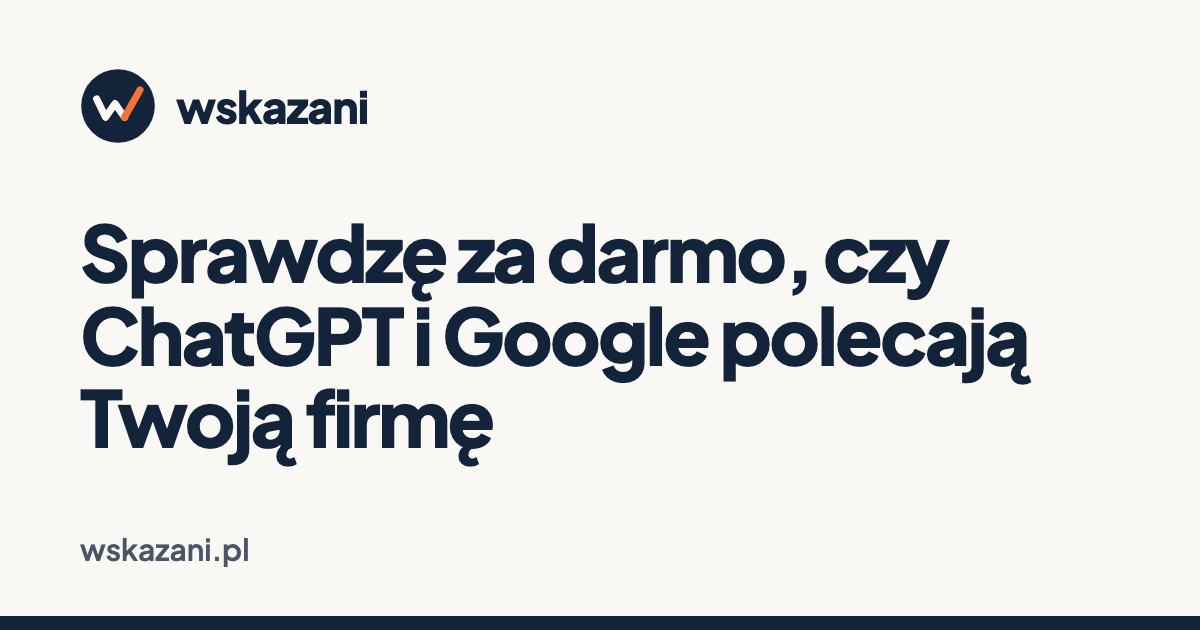
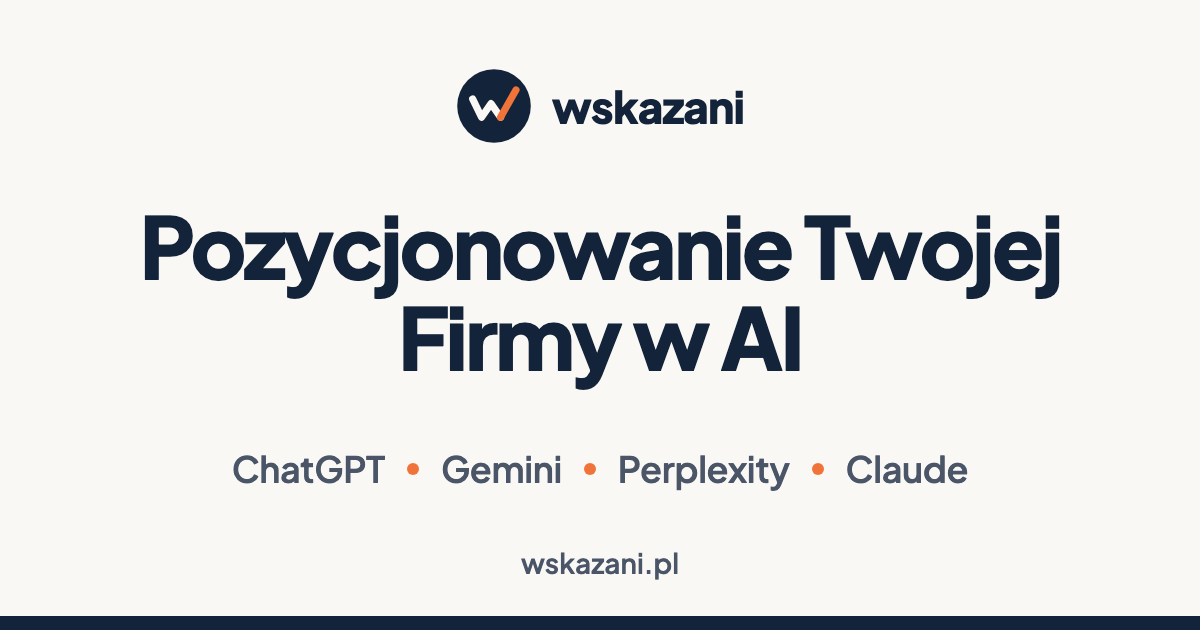
Obraz podglądu linku: wizytówka 'Pozycjonowanie Twojej Firmy w AI' z listą asystentów

diff --git a/tools/og-image.html b/tools/og-image.html
@@ -3,13 +3,16 @@
 @font-face{font-family:'PJS';font-weight:400 800;src:url(../fonts/plus-jakarta-sans-latin.woff2) format('woff2');unicode-range:U+0000-00FF,U+0131,U+0152-0153,U+2000-206F,U+20AC}
 @font-face{font-family:'PJS';font-weight:400 800;src:url(../fonts/plus-jakarta-sans-latin-ext.woff2) format('woff2');unicode-range:U+0100-02BA,U+1E00-1E9F}
 html,body{margin:0}
-body{width:1200px;height:630px;background:#FAF8F4;font-family:'PJS',sans-serif;color:#13233A;position:relative;overflow:hidden}
-.brand{position:absolute;left:80px;top:68px;display:flex;align-items:center;gap:20px;font-weight:800;font-size:44px;letter-spacing:-.02em}
-h1{position:absolute;left:80px;top:210px;width:1000px;margin:0;font-size:78px;line-height:1.06;letter-spacing:-.035em;font-weight:800}
-.url{position:absolute;left:80px;bottom:62px;font-size:30px;font-weight:600;color:#4A5568}
+body{width:1200px;height:630px;background:#FAF8F4;font-family:'PJS',sans-serif;color:#13233A;position:relative;overflow:hidden;text-align:center}
+.brand{position:absolute;left:0;right:0;top:68px;display:flex;align-items:center;justify-content:center;gap:20px;font-weight:800;font-size:44px;letter-spacing:-.02em}
+h1{position:absolute;left:60px;right:60px;top:200px;margin:0;font-size:86px;line-height:1.06;letter-spacing:-.035em;font-weight:800}
+.eng{position:absolute;left:0;right:0;top:446px;display:flex;align-items:center;justify-content:center;gap:22px;font-size:36px;font-weight:600;color:#4A5568;letter-spacing:-.01em}
+.eng i{width:12px;height:12px;border-radius:50%;background:#F0743A;display:block}
+.url{position:absolute;left:0;right:0;bottom:50px;font-size:28px;font-weight:600;color:#4A5568}
 .bar{position:absolute;left:0;bottom:0;width:100%;height:14px;background:#13233A}
 </style></head><body>
 <div class="brand"><svg width="76" height="76" viewBox="0 0 64 64"><circle cx="32" cy="32" r="31" fill="#13233A"/><path d="M14 26L21.5 41.5L29.5 30L37.5 41.5" fill="none" stroke="#FAF8F4" stroke-width="6" stroke-linecap="round" stroke-linejoin="round"/><path d="M37.5 41.5L50.5 18.5" fill="none" stroke="#F0743A" stroke-width="6" stroke-linecap="round"/></svg><span>wskazani</span></div>
-<h1>Sprawdzę za darmo, czy ChatGPT i Google polecają Twoją firmę</h1>
+<h1>Pozycjonowanie Twojej Firmy w AI</h1>
+<div class="eng"><span>ChatGPT</span><i></i><span>Gemini</span><i></i><span>Perplexity</span><i></i><span>Claude</span></div>
 <div class="url">wskazani.pl</div><div class="bar"></div>
 </body></html>

diff --git a/index.html b/index.html
@@ -26,14 +26,14 @@ try{if(localStorage.getItem('zgoda-marketing')==='tak')gtag('consent','update',{
 <meta property="og:title" content="Pozycjonowanie w AI: ChatGPT poleca Twoją firmę | Wskazani">
 <meta property="og:description" content="Kiedy klient pyta ChatGPT o firmę z Twojej branży, AI wymienia konkurencję. Robimy tak, że zaczyna polecać Ciebie. Diagnostyka 19 zł, wynik w 3 dni robocze.">
 <meta property="og:url" content="https://wskazani.pl/">
-<meta property="og:image" content="https://wskazani.pl/og-image.png">
+<meta property="og:image" content="https://wskazani.pl/og-image.png?v=2">
 <meta property="og:image:width" content="1200">
 <meta property="og:image:height" content="630">
-<meta property="og:image:alt" content="Wskazani: AI poleca Twoją firmę, nie konkurencję">
+<meta property="og:image:alt" content="Wskazani: Pozycjonowanie Twojej Firmy w AI. ChatGPT, Gemini, Perplexity, Claude">
 <meta name="twitter:card" content="summary_large_image">
 <meta name="twitter:title" content="Pozycjonowanie w AI: ChatGPT poleca Twoją firmę | Wskazani">
 <meta name="twitter:description" content="Kiedy klient pyta ChatGPT o firmę z Twojej branży, AI wymienia konkurencję. Robimy tak, że zaczyna polecać Ciebie. Diagnostyka 19 zł, wynik w 3 dni robocze.">
-<meta name="twitter:image" content="https://wskazani.pl/og-image.png">
+<meta name="twitter:image" content="https://wskazani.pl/og-image.png?v=2">
 <link rel="preload" href="/fonts/plus-jakarta-sans-latin.woff2" as="font" type="font/woff2" crossorigin>
 <link rel="stylesheet" href="/style.css">
 <noscript><style>.nav-toggle{display:none}.nav-panel{display:flex!important}.cmp-wrap{display:block!important}.cmp-mobile{display:none!important}</style></noscript>

diff --git a/cennik.html b/cennik.html
@@ -26,14 +26,14 @@ try{if(localStorage.getItem('zgoda-marketing')==='tak')gtag('consent','update',{
 <meta property="og:title" content="Cennik: ile kosztuje pozycjonowanie w AI | Wskazani">
 <meta property="og:description" content="Jasne ceny: diagnostyka pozycjonowania w AI 19 zł, wdrożenie od 990 zł, nowa strona od 1990 zł, stała opieka od 199 zł miesięcznie. Kwoty końcowe, bez VAT.">
 <meta property="og:url" content="https://wskazani.pl/cennik">
-<meta property="og:image" content="https://wskazani.pl/og-image.png">
+<meta property="og:image" content="https://wskazani.pl/og-image.png?v=2">
 <meta property="og:image:width" content="1200">
 <meta property="og:image:height" content="630">
-<meta property="og:image:alt" content="Wskazani: AI poleca Twoją firmę, nie konkurencję">
+<meta property="og:image:alt" content="Wskazani: Pozycjonowanie Twojej Firmy w AI. ChatGPT, Gemini, Perplexity, Claude">
 <meta name="twitter:card" content="summary_large_image">
 <meta name="twitter:title" content="Cennik: ile kosztuje pozycjonowanie w AI | Wskazani">
 <meta name="twitter:description" content="Jasne ceny: diagnostyka pozycjonowania w AI 19 zł, wdrożenie od 990 zł, nowa strona od 1990 zł, stała opieka od 199 zł miesięcznie. Kwoty końcowe, bez VAT.">
-<meta name="twitter:image" content="https://wskazani.pl/og-image.png">
+<meta name="twitter:image" content="https://wskazani.pl/og-image.png?v=2">
 <link rel="preload" href="/fonts/plus-jakarta-sans-latin.woff2" as="font" type="font/woff2" crossorigin>
 <link rel="stylesheet" href="/style.css">
 <noscript><style>.nav-toggle{display:none}.nav-panel{display:flex!important}.cmp-wrap{display:block!important}.cmp-mobile{display:none!important}</style></noscript>

diff --git a/o-nas.html b/o-nas.html
@@ -26,14 +26,14 @@ try{if(localStorage.getItem('zgoda-marketing')==='tak')gtag('consent','update',{
 <meta property="og:title" content="O nas: Wskazani, pozycjonowanie w AI z Warszawy">
 <meta property="og:description" content="Wskazani to agencja z Warszawy. Sprawdzamy i poprawiamy, jak ChatGPT, Gemini, Perplexity i Claude polecają polskie firmy. Jawne ceny, bez umowy na lata.">
 <meta property="og:url" content="https://wskazani.pl/o-nas">
-<meta property="og:image" content="https://wskazani.pl/og-image.png">
+<meta property="og:image" content="https://wskazani.pl/og-image.png?v=2">
 <meta property="og:image:width" content="1200">
 <meta property="og:image:height" content="630">
-<meta property="og:image:alt" content="Wskazani: AI poleca Twoją firmę, nie konkurencję">
+<meta property="og:image:alt" content="Wskazani: Pozycjonowanie Twojej Firmy w AI. ChatGPT, Gemini, Perplexity, Claude">
 <meta name="twitter:card" content="summary_large_image">
 <meta name="twitter:title" content="O nas: Wskazani, pozycjonowanie w AI z Warszawy">
 <meta name="twitter:description" content="Wskazani to agencja z Warszawy. Sprawdzamy i poprawiamy, jak ChatGPT, Gemini, Perplexity i Claude polecają polskie firmy. Jawne ceny, bez umowy na lata.">
-<meta name="twitter:image" content="https://wskazani.pl/og-image.png">
+<meta name="twitter:image" content="https://wskazani.pl/og-image.png?v=2">
 <link rel="preload" href="/fonts/plus-jakarta-sans-latin.woff2" as="font" type="font/woff2" crossorigin>
 <link rel="stylesheet" href="/style.css">
 <noscript><style>.nav-toggle{display:none}.nav-panel{display:flex!important}.cmp-wrap{display:block!important}.cmp-mobile{display:none!important}</style></noscript>

diff --git a/wspolpraca.html b/wspolpraca.html
@@ -26,14 +26,14 @@ try{if(localStorage.getItem('zgoda-marketing')==='tak')gtag('consent','update',{
 <meta property="og:title" content="Stała opieka i monitoring pozycjonowania w AI | Wskazani">
 <meta property="og:description" content="Bez umowy na lata, od 199 zł miesięcznie. Co miesiąc sprawdzamy, czy AI dalej rozumie Twoją firmę, i poprawiamy to, co się zmieniło.">
 <meta property="og:url" content="https://wskazani.pl/wspolpraca">
-<meta property="og:image" content="https://wskazani.pl/og-image.png">
+<meta property="og:image" content="https://wskazani.pl/og-image.png?v=2">
 <meta property="og:image:width" content="1200">
 <meta property="og:image:height" content="630">
-<meta property="og:image:alt" content="Wskazani: AI poleca Twoją firmę, nie konkurencję">
+<meta property="og:image:alt" content="Wskazani: Pozycjonowanie Twojej Firmy w AI. ChatGPT, Gemini, Perplexity, Claude">
 <meta name="twitter:card" content="summary_large_image">
 <meta name="twitter:title" content="Stała opieka i monitoring pozycjonowania w AI | Wskazani">
 <meta name="twitter:description" content="Bez umowy na lata, od 199 zł miesięcznie. Co miesiąc sprawdzamy, czy AI dalej rozumie Twoją firmę, i poprawiamy to, co się zmieniło.">
-<meta name="twitter:image" content="https://wskazani.pl/og-image.png">
+<meta name="twitter:image" content="https://wskazani.pl/og-image.png?v=2">
 <link rel="preload" href="/fonts/plus-jakarta-sans-latin.woff2" as="font" type="font/woff2" crossorigin>
 <link rel="stylesheet" href="/style.css">
 <noscript><style>.nav-toggle{display:none}.nav-panel{display:flex!important}.cmp-wrap{display:block!important}.cmp-mobile{display:none!important}</style></noscript>

diff --git a/pozycjonowanie-w-ai.html b/pozycjonowanie-w-ai.html
@@ -26,14 +26,14 @@ try{if(localStorage.getItem('zgoda-marketing')==='tak')gtag('consent','update',{
 <meta property="og:title" content="Pozycjonowanie w AI dla firm | Wskazani">
 <meta property="og:description" content="Poprawiamy to, co ChatGPT, Perplexity i Google czytają o Twojej firmie. Konkretny zakres, jawne ceny i bez umowy na lata. Diagnostyka za 19 zł.">
 <meta property="og:url" content="https://wskazani.pl/pozycjonowanie-w-ai">
-<meta property="og:image" content="https://wskazani.pl/og-image.png">
+<meta property="og:image" content="https://wskazani.pl/og-image.png?v=2">
 <meta property="og:image:width" content="1200">
 <meta property="og:image:height" content="630">
-<meta property="og:image:alt" content="Wskazani: AI poleca Twoją firmę, nie konkurencję">
+<meta property="og:image:alt" content="Wskazani: Pozycjonowanie Twojej Firmy w AI. ChatGPT, Gemini, Perplexity, Claude">
 <meta name="twitter:card" content="summary_large_image">
 <meta name="twitter:title" content="Pozycjonowanie w AI dla firm | Wskazani">
 <meta name="twitter:description" content="Poprawiamy to, co ChatGPT, Perplexity i Google czytają o Twojej firmie. Konkretny zakres, jawne ceny i bez umowy na lata. Diagnostyka za 19 zł.">
-<meta name="twitter:image" content="https://wskazani.pl/og-image.png">
+<meta name="twitter:image" content="https://wskazani.pl/og-image.png?v=2">
 <link rel="preload" href="/fonts/plus-jakarta-sans-latin.woff2" as="font" type="font/woff2" crossorigin>
 <link rel="stylesheet" href="/style.css">
 <noscript><style>.nav-toggle{display:none}.nav-panel{display:flex!important}.cmp-wrap{display:block!important}.cmp-mobile{display:none!important}</style></noscript>

diff --git a/faq.html b/faq.html
@@ -26,14 +26,14 @@ try{if(localStorage.getItem('zgoda-marketing')==='tak')gtag('consent','update',{
 <meta property="og:title" content="Pytania o pozycjonowanie w AI i audyt | Wskazani">
 <meta property="og:description" content="Krótkie odpowiedzi o diagnostyce, cenach, rozliczeniu, współpracy i technice, plus słowniczek: GEO, AI Overviews, llms.txt.">
 <meta property="og:url" content="https://wskazani.pl/faq">
-<meta property="og:image" content="https://wskazani.pl/og-image.png">
+<meta property="og:image" content="https://wskazani.pl/og-image.png?v=2">
 <meta property="og:image:width" content="1200">
 <meta property="og:image:height" content="630">
-<meta property="og:image:alt" content="Wskazani: AI poleca Twoją firmę, nie konkurencję">
+<meta property="og:image:alt" content="Wskazani: Pozycjonowanie Twojej Firmy w AI. ChatGPT, Gemini, Perplexity, Claude">
 <meta name="twitter:card" content="summary_large_image">
 <meta name="twitter:title" content="Pytania o pozycjonowanie w AI i audyt | Wskazani">
 <meta name="twitter:description" content="Krótkie odpowiedzi o diagnostyce, cenach, rozliczeniu, współpracy i technice, plus słowniczek: GEO, AI Overviews, llms.txt.">
-<meta name="twitter:image" content="https://wskazani.pl/og-image.png">
+<meta name="twitter:image" content="https://wskazani.pl/og-image.png?v=2">
 <link rel="preload" href="/fonts/plus-jakarta-sans-latin.woff2" as="font" type="font/woff2" crossorigin>
 <link rel="stylesheet" href="/style.css">
 <noscript><style>.nav-toggle{display:none}.nav-panel{display:flex!important}.cmp-wrap{display:block!important}.cmp-mobile{display:none!important}</style></noscript>

diff --git a/polityka-prywatnosci.html b/polityka-prywatnosci.html
@@ -27,14 +27,14 @@ try{if(localStorage.getItem('zgoda-marketing')==='tak')gtag('consent','update',{
 <meta property="og:title" content="Polityka prywatności | Wskazani">
 <meta property="og:description" content="Jak przetwarzam dane z formularzy: administrator, cel, podstawa prawna, odbiorcy, okres przechowywania i Twoje prawa.">
 <meta property="og:url" content="https://wskazani.pl/polityka-prywatnosci">
-<meta property="og:image" content="https://wskazani.pl/og-image.png">
+<meta property="og:image" content="https://wskazani.pl/og-image.png?v=2">
 <meta property="og:image:width" content="1200">
 <meta property="og:image:height" content="630">
-<meta property="og:image:alt" content="Wskazani: AI poleca Twoją firmę, nie konkurencję">
+<meta property="og:image:alt" content="Wskazani: Pozycjonowanie Twojej Firmy w AI. ChatGPT, Gemini, Perplexity, Claude">
 <meta name="twitter:card" content="summary_large_image">
 <meta name="twitter:title" content="Polityka prywatności | Wskazani">
 <meta name="twitter:description" content="Jak przetwarzam dane z formularzy: administrator, cel, podstawa prawna, odbiorcy, okres przechowywania i Twoje prawa.">
-<meta name="twitter:image" content="https://wskazani.pl/og-image.png">
+<meta name="twitter:image" content="https://wskazani.pl/og-image.png?v=2">
 <link rel="preload" href="/fonts/plus-jakarta-sans-latin.woff2" as="font" type="font/woff2" crossorigin>
 <link rel="stylesheet" href="/style.css">
 <noscript><style>.nav-toggle{display:none}.nav-panel{display:flex!important}.cmp-wrap{display:block!important}.cmp-mobile{display:none!important}</style></noscript>

diff --git a/404.html b/404.html
@@ -26,14 +26,14 @@ try{if(localStorage.getItem('zgoda-marketing')==='tak')gtag('consent','update',{
 <meta property="og:title" content="Nie znaleziono strony | Wskazani">
 <meta property="og:description" content="Ta strona nie istnieje. Wróć na stronę główną i zamów diagnostykę pozycjonowania firmy w AI.">
 <meta property="og:url" content="https://wskazani.pl/404">
-<meta property="og:image" content="https://wskazani.pl/og-image.png">
+<meta property="og:image" content="https://wskazani.pl/og-image.png?v=2">
 <meta property="og:image:width" content="1200">
 <meta property="og:image:height" content="630">
-<meta property="og:image:alt" content="Wskazani: AI poleca Twoją firmę, nie konkurencję">
+<meta property="og:image:alt" content="Wskazani: Pozycjonowanie Twojej Firmy w AI. ChatGPT, Gemini, Perplexity, Claude">
 <meta name="twitter:card" content="summary_large_image">
 <meta name="twitter:title" content="Nie znaleziono strony | Wskazani">
 <meta name="twitter:description" content="Ta strona nie istnieje. Wróć na stronę główną i zamów diagnostykę pozycjonowania firmy w AI.">
-<meta name="twitter:image" content="https://wskazani.pl/og-image.png">
+<meta name="twitter:image" content="https://wskazani.pl/og-image.png?v=2">
 <link rel="preload" href="/fonts/plus-jakarta-sans-latin.woff2" as="font" type="font/woff2" crossorigin>
 <link rel="stylesheet" href="/style.css">
 <noscript><style>.nav-toggle{display:none}.nav-panel{display:flex!important}.cmp-wrap{display:block!important}.cmp-mobile{display:none!important}</style></noscript>

diff --git a/dziekuje.html b/dziekuje.html
@@ -26,14 +26,14 @@ try{if(localStorage.getItem('zgoda-marketing')==='tak')gtag('consent','update',{
 <meta property="og:title" content="Dziękuję za zgłoszenie | Wskazani">
 <meta property="og:description" content="Zgłoszenie zostało wysłane.">
 <meta property="og:url" content="https://wskazani.pl/dziekuje">
-<meta property="og:image" content="https://wskazani.pl/og-image.png">
+<meta property="og:image" content="https://wskazani.pl/og-image.png?v=2">
 <meta property="og:image:width" content="1200">
 <meta property="og:image:height" content="630">
-<meta property="og:image:alt" content="Wskazani: AI poleca Twoją firmę, nie konkurencję">
+<meta property="og:image:alt" content="Wskazani: Pozycjonowanie Twojej Firmy w AI. ChatGPT, Gemini, Perplexity, Claude">
 <meta name="twitter:card" content="summary_large_image">
 <meta name="twitter:title" content="Dziękuję za zgłoszenie | Wskazani">
 <meta name="twitter:description" content="Zgłoszenie zostało wysłane.">
-<meta name="twitter:image" content="https://wskazani.pl/og-image.png">
+<meta name="twitter:image" content="https://wskazani.pl/og-image.png?v=2">
 <link rel="preload" href="/fonts/plus-jakarta-sans-latin.woff2" as="font" type="font/woff2" crossorigin>
 <link rel="stylesheet" href="/style.css">
 <noscript><style>.nav-toggle{display:none}.nav-panel{display:flex!important}.cmp-wrap{display:block!important}.cmp-mobile{display:none!important}</style></noscript>

diff --git a/tools/build.py b/tools/build.py
@@ -14,7 +14,7 @@ import os, re
 ROOT = os.path.dirname(os.path.dirname(os.path.abspath(__file__)))
 SITE = 'https://wskazani.pl'
 LASTMOD = '2026-10-30'
-OG_ALT = 'Wskazani: AI poleca Twoją firmę, nie konkurencję'
+OG_ALT = 'Wskazani: Pozycjonowanie Twojej Firmy w AI. ChatGPT, Gemini, Perplexity, Claude'
 
 
 def esc(s):
@@ -99,10 +99,10 @@ def head(title, desc, path, jsonld=(), robots=None, og_type='website'):
                '<link rel="apple-touch-icon" href="/apple-touch-icon.png">\n')
     out.append('<meta property="og:type" content="%s">\n<meta property="og:locale" content="pl_PL">\n<meta property="og:site_name" content="Wskazani">\n'
                '<meta property="og:title" content="%s">\n<meta property="og:description" content="%s">\n<meta property="og:url" content="%s">\n'
-               '<meta property="og:image" content="%s/og-image.png">\n<meta property="og:image:width" content="1200">\n<meta property="og:image:height" content="630">\n'
+               '<meta property="og:image" content="%s/og-image.png?v=2">\n<meta property="og:image:width" content="1200">\n<meta property="og:image:height" content="630">\n'
                '<meta property="og:image:alt" content="%s">\n'
                '<meta name="twitter:card" content="summary_large_image">\n<meta name="twitter:title" content="%s">\n<meta name="twitter:description" content="%s">\n'
-               '<meta name="twitter:image" content="%s/og-image.png">\n'
+               '<meta name="twitter:image" content="%s/og-image.png?v=2">\n'
                % (og_type, attr(title), attr(desc), url, SITE, attr(OG_ALT), attr(title), attr(desc), SITE))
     out.append('<link rel="preload" href="/fonts/plus-jakarta-sans-latin.woff2" as="font" type="font/woff2" crossorigin>\n')
     out.append('<link rel="stylesheet" href="/style.css">\n')
